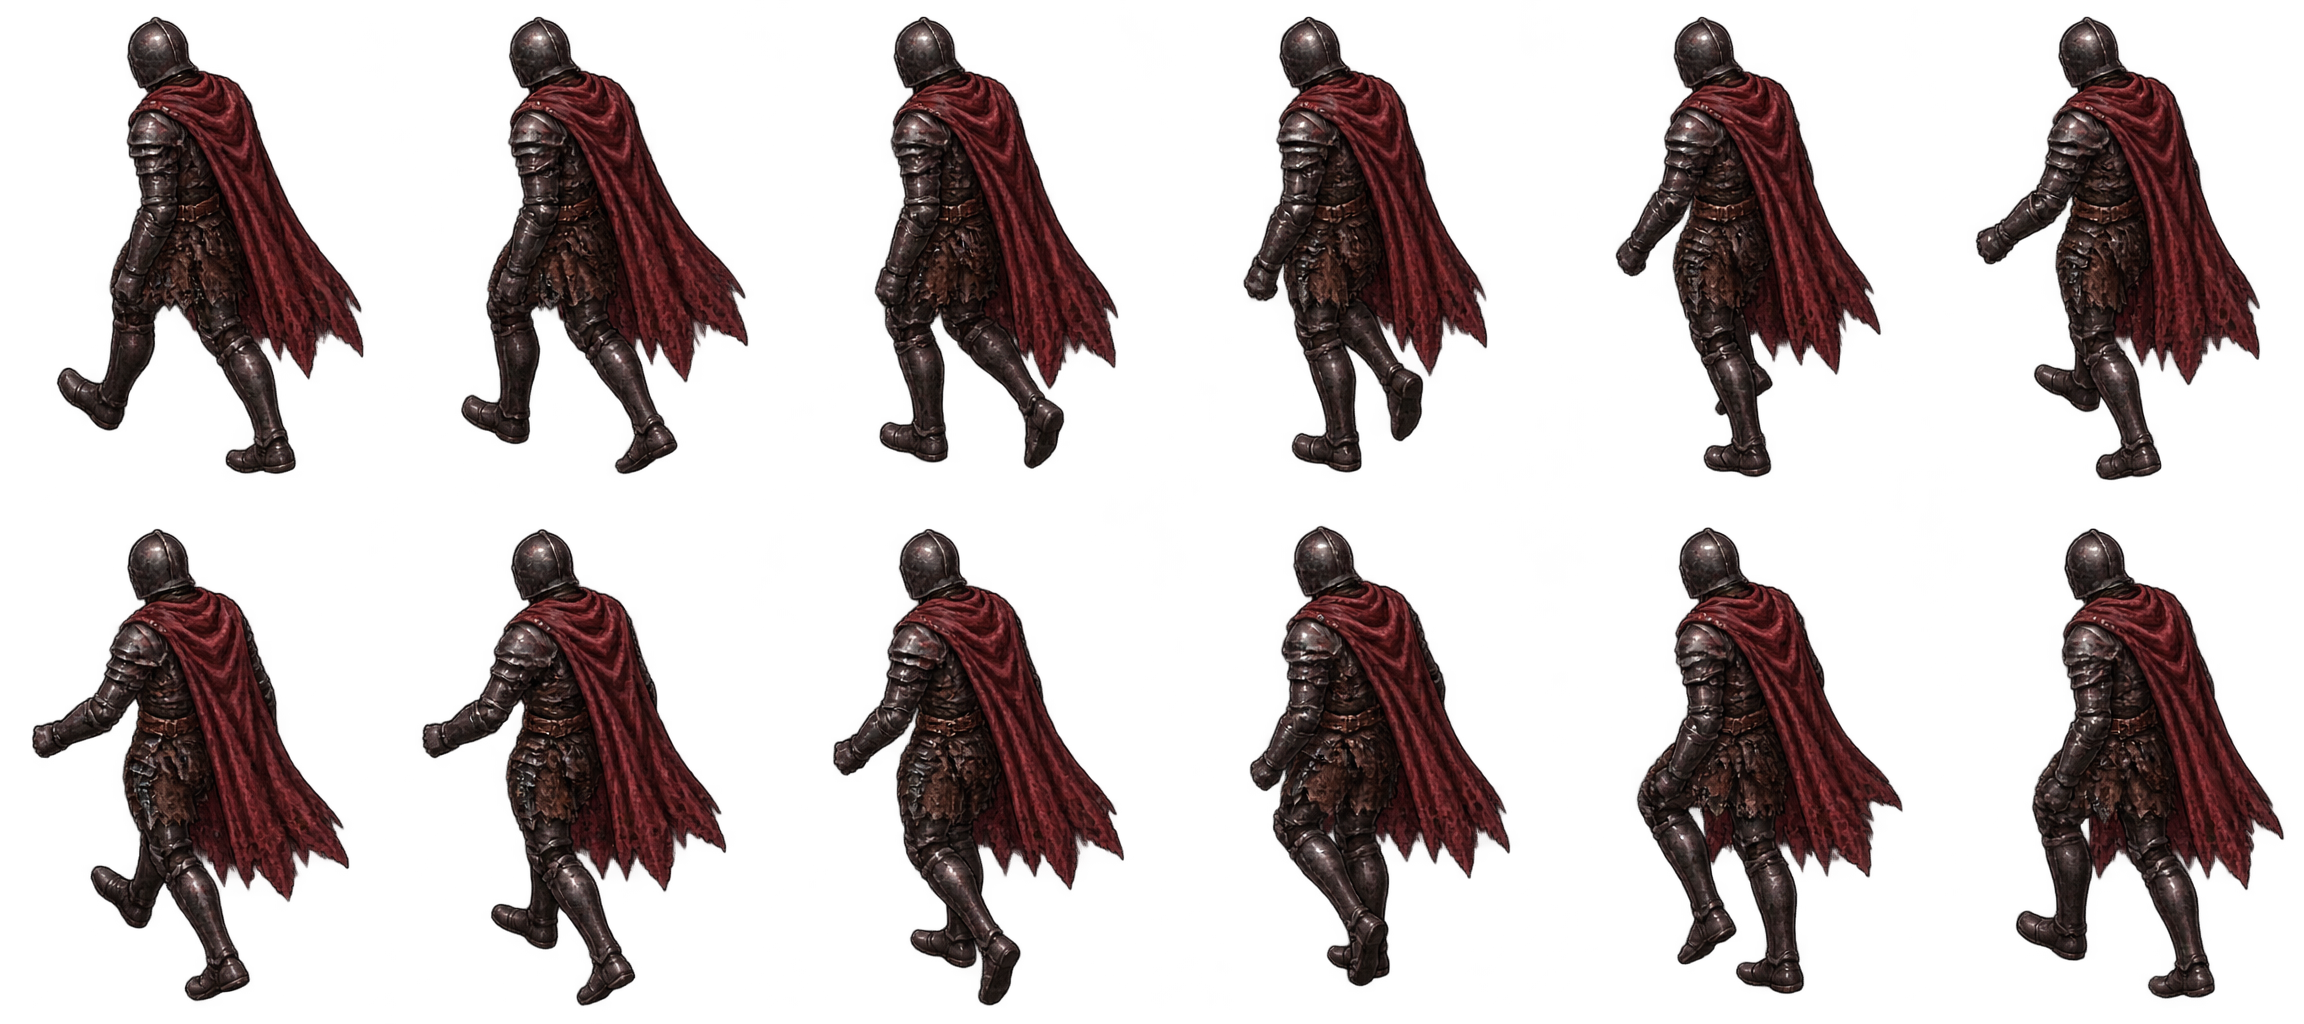
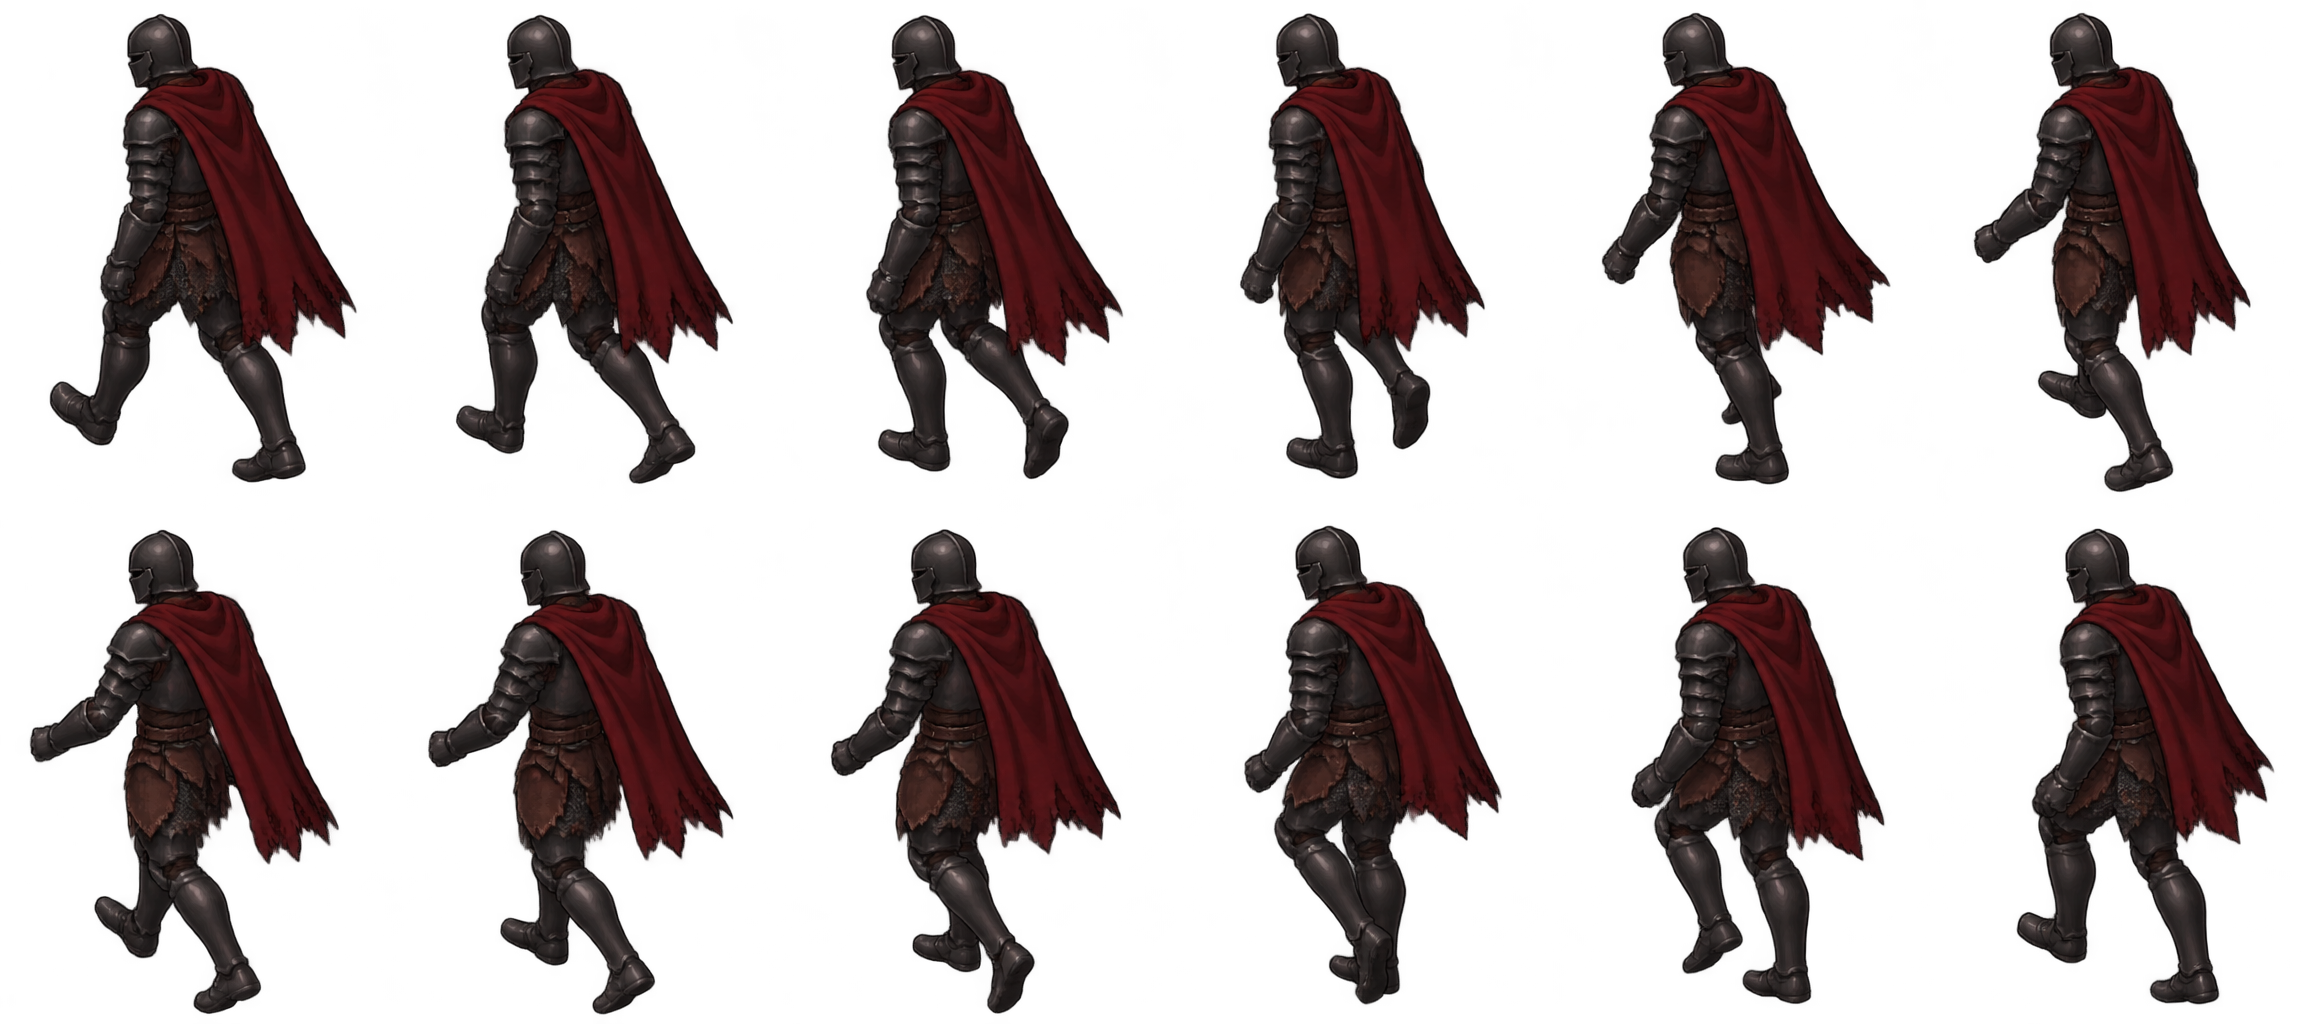
dungeon-crawler hero: simplified reference and NW repaint to stop the shimmer; learnings note

diff --git a/.claude/skills/sprite-animation/learnings.md b/.claude/skills/sprite-animation/learnings.md
@@ -106,3 +106,14 @@ of `martin/dungeon-crawler-01/tools/ranger_test` for the raw images and comparis
 - 2026-11 tests with `gpt-image-2.6-flare` medium: one direction 8 frames 1536 × 1024 $0.034; 12 frames 1536 × 960
   $0.031; 8 × 8 sheet 1536 × 2048 $0.055, 2400 × 3200 $0.104. Cost follows the image size, not the frame count
   (roughly $0.02 + $0.011 per megapixel).
+
+## Shimmer (2026-11-18, dungeon-crawler hero)
+
+- **A detailed reference makes the walk shimmer:** fine texture (mottled plate, speckled cloth) is repainted
+  differently in every frame and flickers when the frames play. Measured at game scale (figure 118 px tall, mean
+  edge strength over the figure): the detailed NW walk 45, the old in-game sprite 31.
+- **Fix: a simple reference plus a consistency paragraph.** Redraw the approved reference with `edit` ("large clean
+  areas of colour, 2-3 tones per material, NO texture, NO speckles"); it came back lighter (grey steel, bright red),
+  so its colours were pulled back in Python (colour 0.85 against the original). Add to the prompt: "this is an
+  animation ... every figure is shaded IDENTICALLY: the same highlight on the same plate, the same few broad folds".
+  Result: 24, flat and steady from frame to frame. Make references simple from the start.
